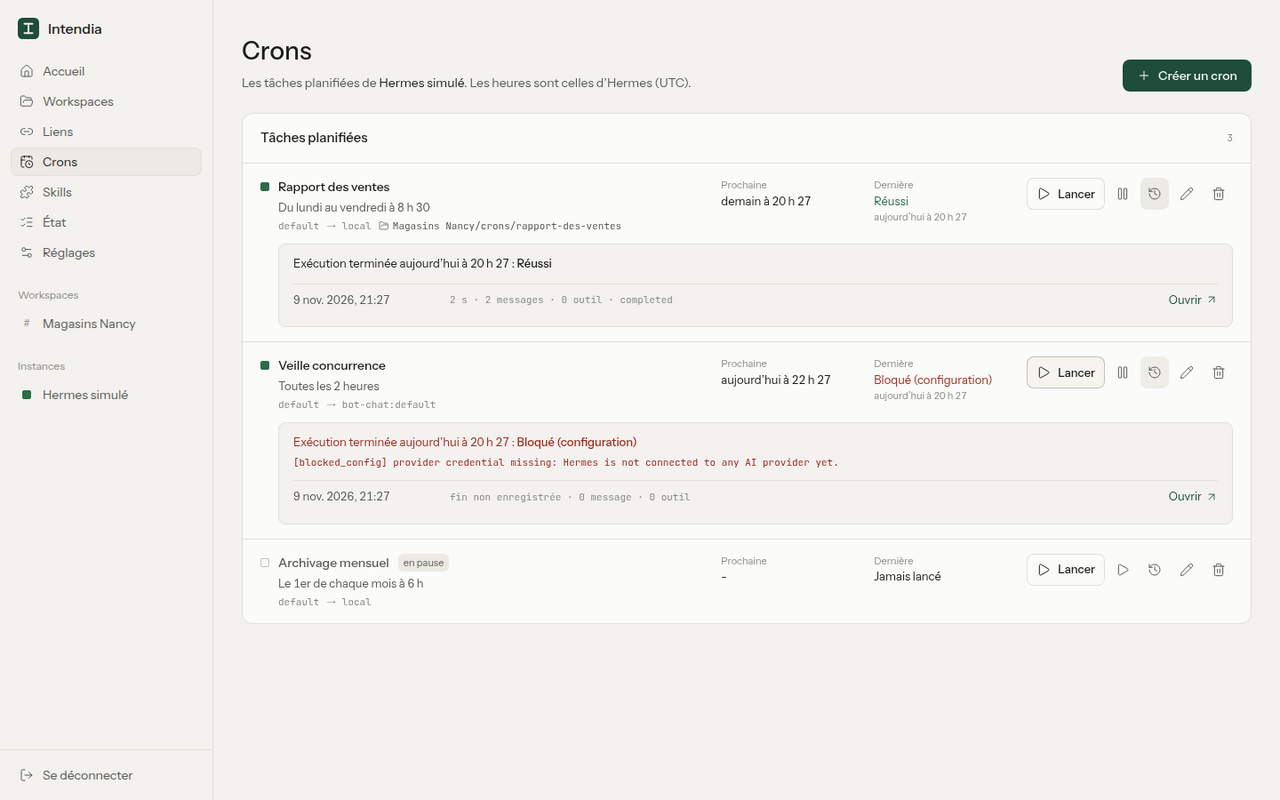
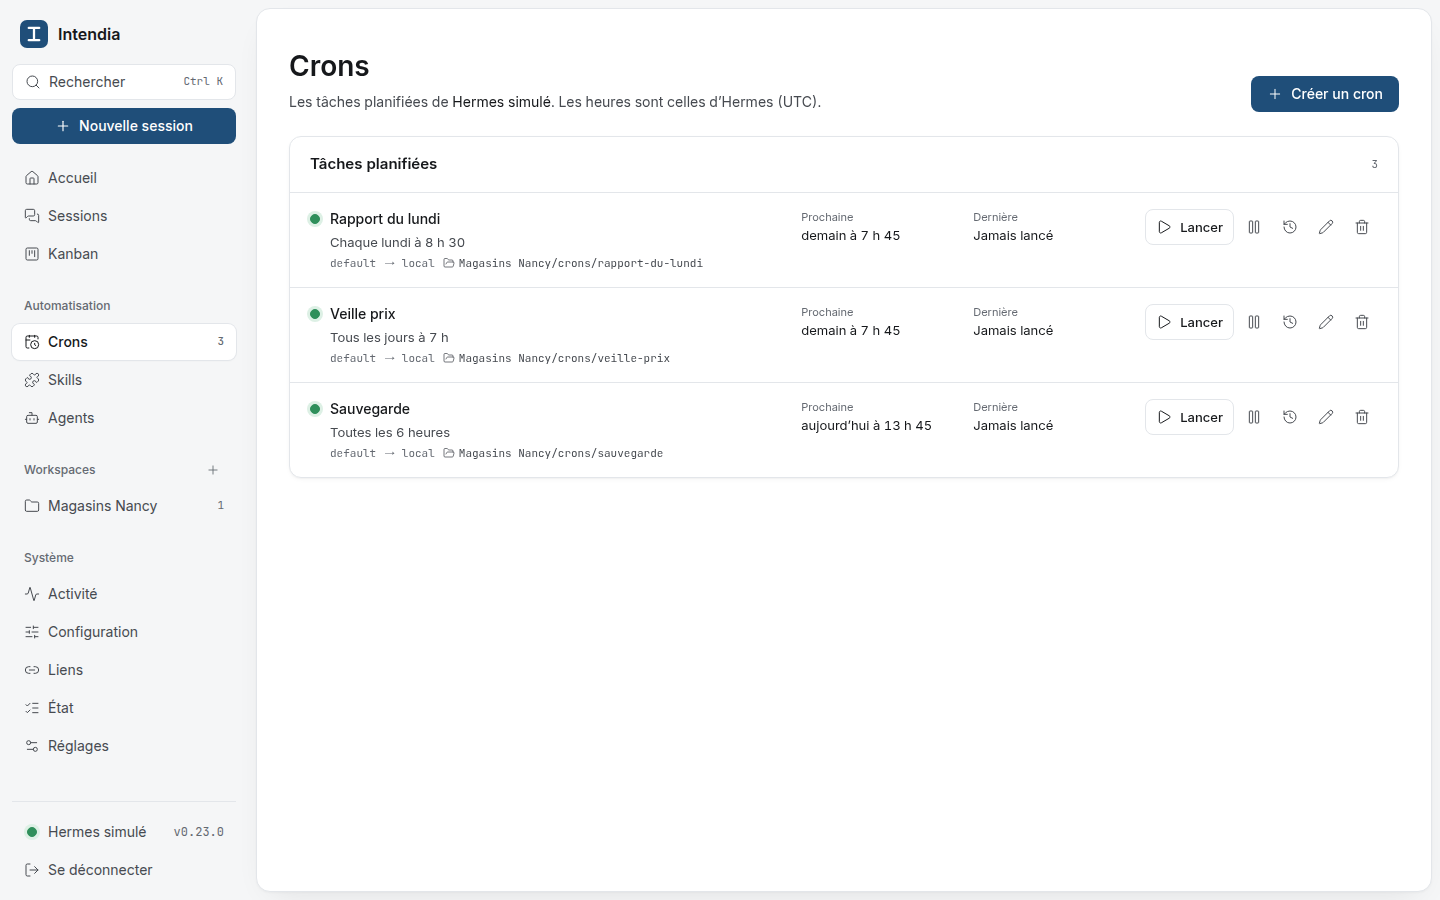
v0.0.2 : version et captures du README au design actuel

diff --git a/apps/server/src/index.ts b/apps/server/src/index.ts
@@ -10,7 +10,7 @@ import { InstanceStore } from './instances/store.js';
 import { createMcpApp } from './mcp/server.js';
 import { createServices } from './services.js';
 
-const VERSION = process.env.INTENDIA_VERSION ?? '0.0.1-dev';
+const VERSION = process.env.INTENDIA_VERSION ?? '0.0.2-dev';
 
 function checkWritable(dir: string, what: string): void {
   try {
